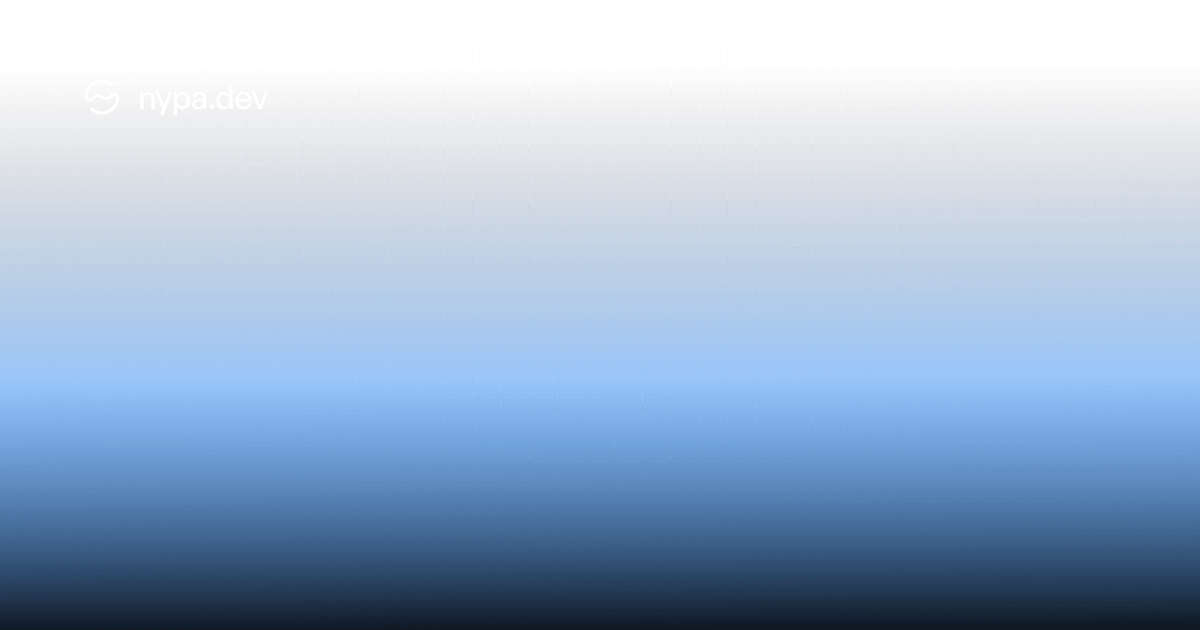
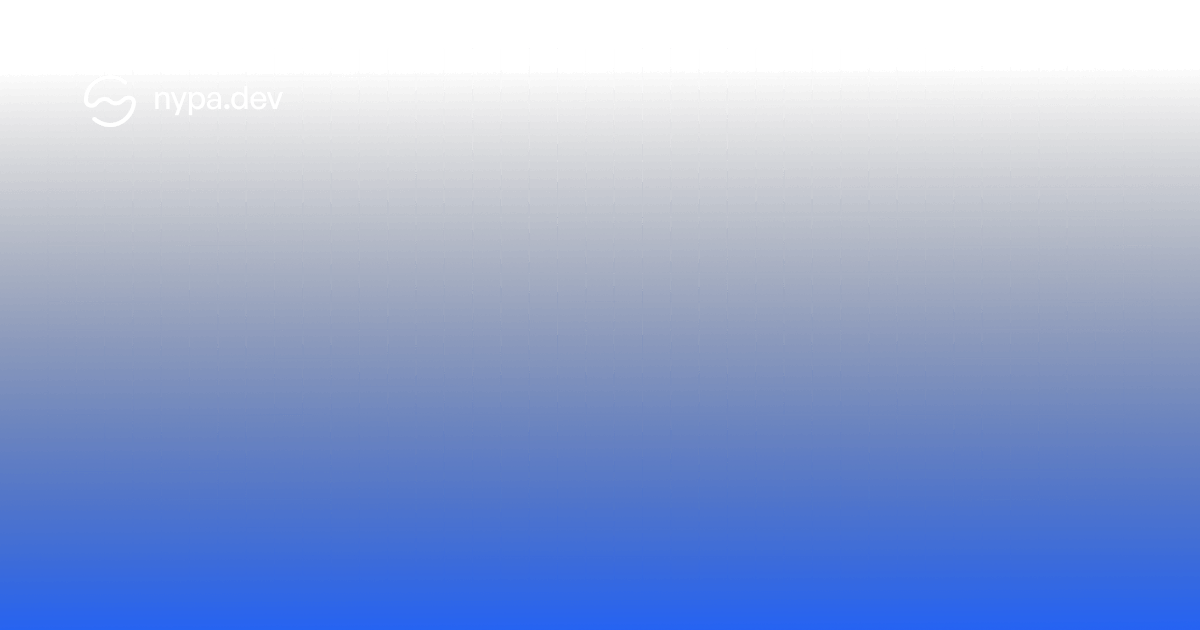
update to blog og and removed old implementation

diff --git a/app/blog/[slug]/page.tsx b/app/blog/[slug]/page.tsx
@@ -9,7 +9,6 @@ import PostListRelated from '@/components/ui/PostListRelated';
 import { SITE_INSTAGRAM_URL, SITE_LINKEDIN_URL, SITE_NAME, SITE_URL } from '@/data/constants';
 import { IconCalendar, IconHourglass } from '@/data/icons';
 import { getBlogPost, getBlogPosts, getRelatedPosts } from '@/lib/blog';
-import { createOgImage } from '@/lib/createOgImage';
 import { formatDate } from '@/lib/utils';
 import avatar from '@/public/images/avatar.avif';
 
@@ -37,10 +36,6 @@ export async function generateMetadata(
 
 	const { title, summary, date, image } = post;
 	const previousImages = (await parent)?.openGraph?.images || [];
-	const seoImage = createOgImage({
-		title: post.title,
-		meta: [formatDate(post.date, true, true), ...post.tags.slice(0, 3)].join(' · '),
-	});
 
 	return {
 		title,
@@ -57,7 +52,7 @@ export async function generateMetadata(
 			url: `${SITE_URL}/blog/${post.slug}`,
 			images: [
 				{
-					url: `/api/og?title=${encodeURIComponent(title)}&image=${encodeURIComponent(
+					url: `/api/ogBlog?title=${encodeURIComponent(title)}&image=${encodeURIComponent(
 						image || ''
 					)}&tags=${encodeURIComponent(post.tags.slice(0, 3).join(','))}`,
 					width: 1200,
@@ -74,7 +69,7 @@ export async function generateMetadata(
 			card: 'summary_large_image',
 			images: [
 				{
-					url: `/api/og?title=${encodeURIComponent(title)}&image=${encodeURIComponent(
+					url: `/api/ogBlog?title=${encodeURIComponent(title)}&image=${encodeURIComponent(
 						image || ''
 					)}&tags=${encodeURIComponent(post.tags.slice(0, 3).join(','))}`,
 					width: 1200,
@@ -103,13 +98,15 @@ export default async function BlogPost(props: Props) {
 		},
 		headline: post.title,
 		description: post.summary,
+		keywords: post.tags.join(', '),
 		url: `${SITE_URL}/blog/${post.slug}`,
 		datePublished: post.date.toISOString(),
 		dateModified: post.date.toISOString(),
-		image: createOgImage({
-			title: post.title,
-			meta: [formatDate(post.date, true, true), ...post.tags.slice(0, 3)].join(' · '),
-		}),
+		image: `${SITE_URL}/api/ogBlog?title=${encodeURIComponent(
+			post.title
+		)}&image=${encodeURIComponent(post.image || '')}&tags=${encodeURIComponent(
+			post.tags.slice(0, 3).join(',')
+		)}`,
 		author: {
 			'@type': 'Person',
 			name: SITE_NAME,
@@ -138,21 +135,7 @@ export default async function BlogPost(props: Props) {
 				</div>
 
 				<Section className="max-w-5xl mx-auto pb-0" borderOrigin="y">
-					{/* {post.image && post.imageMeta && (
-						<Image
-							priority
-							src={post.image}
-							alt={`${post.title} post image`}
-							width={post.imageMeta.width}
-							height={post.imageMeta.height}
-							placeholder="blur"
-							blurDataURL={post.imageMeta.blur}
-							draggable={false}
-							className="w-full aspect-video object-cover border-b"
-						/>
-					)} */}
-
-					<header className="relative">
+					<div className="relative">
 						{/* LINES */}
 						<span className="absolute top-6 z-10 h-px w-full bg-zinc-500/75 mix-blend-screen md:top-12" />
 						<span className="absolute bottom-6 z-10 h-px w-full bg-zinc-500/75 mix-blend-screen md:bottom-12" />
@@ -202,7 +185,7 @@ export default async function BlogPost(props: Props) {
 								</div>
 							</div>
 						</div>
-					</header>
+					</div>
 				</Section>
 
 				<Section className="pt-16 pb-12">

diff --git a/app/api/ogBlog/route.tsx b/app/api/ogBlog/route.tsx
@@ -38,7 +38,7 @@ export async function GET(request: NextRequest) {
 						<div
 							tw="absolute w-full h-full"
 							style={{
-								backgroundColor: '#2663f2',
+								backgroundColor: '#102e73',
 							}}
 						/>
 					)}
@@ -68,7 +68,7 @@ export async function GET(request: NextRequest) {
 					<div tw="absolute left-20 bottom-16 w-full h-full flex flex-col justify-end">
 						<div tw="uppercase flex items-center">
 							{tagList.map((tag, index) => (
-								<span key={index} tw="px-6 py-2 mr-5 rounded-sm bg-white text-black">
+								<span key={index} tw="px-6 py-2 mr-5 rounded-lg bg-white/10 text-white">
 									# {tag}
 								</span>
 							))}
